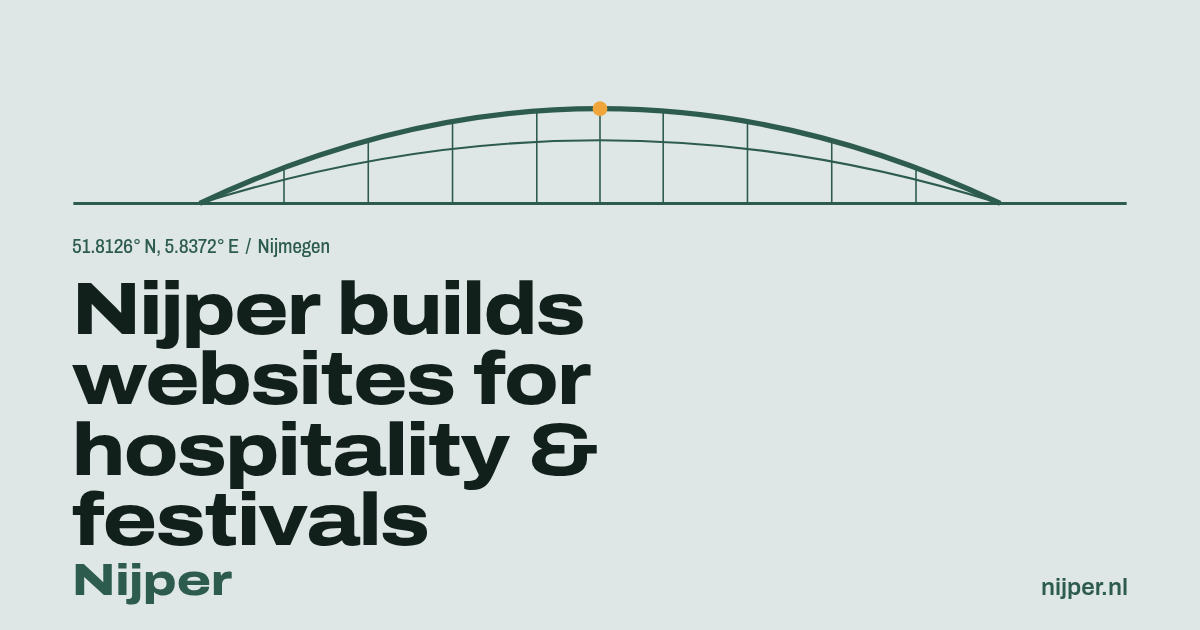
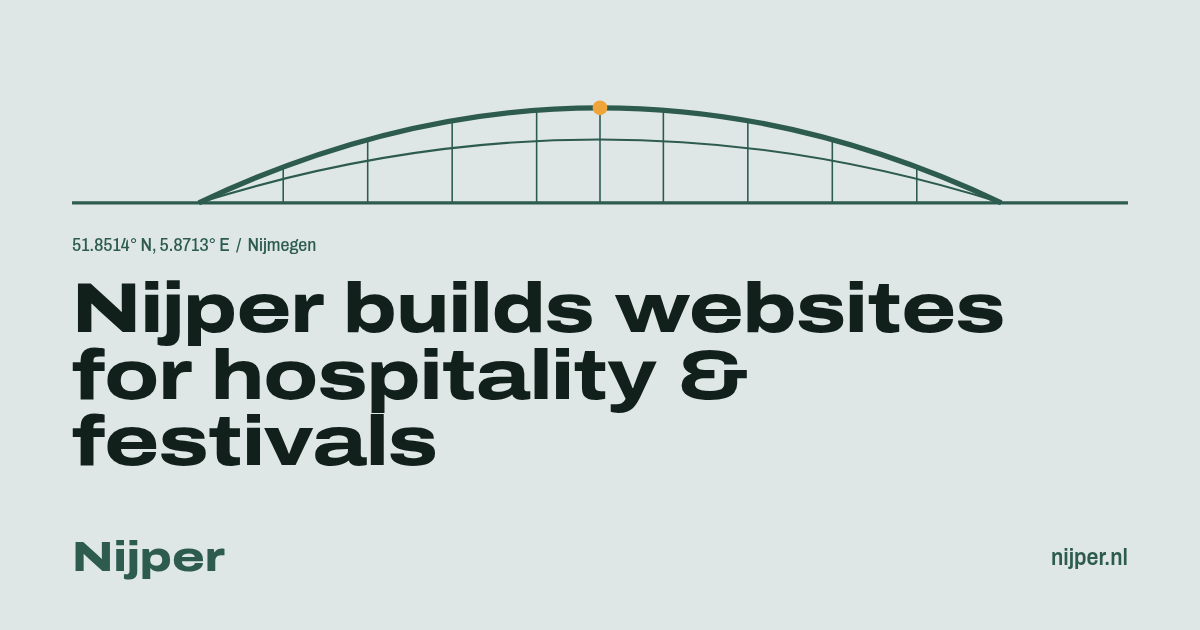
changed coordinates to Waalbrug

diff --git a/src/i18n/meta.ts b/src/i18n/meta.ts
@@ -216,7 +216,7 @@ export function schemaFor(page: PageId, lang: Lang) {
     email: 'info@nijper.nl',
     priceRange: '€€',
     address: { '@type': 'PostalAddress', addressLocality: 'Nijmegen', addressRegion: 'Gelderland', addressCountry: 'NL' },
-    geo: { '@type': 'GeoCoordinates', latitude: 51.8126, longitude: 5.8372 },
+    geo: { '@type': 'GeoCoordinates', latitude: 51.8514, longitude: 5.8713 },
     areaServed: { '@type': 'City', name: 'Nijmegen' },
     openingHoursSpecification: {
       '@type': 'OpeningHoursSpecification',
